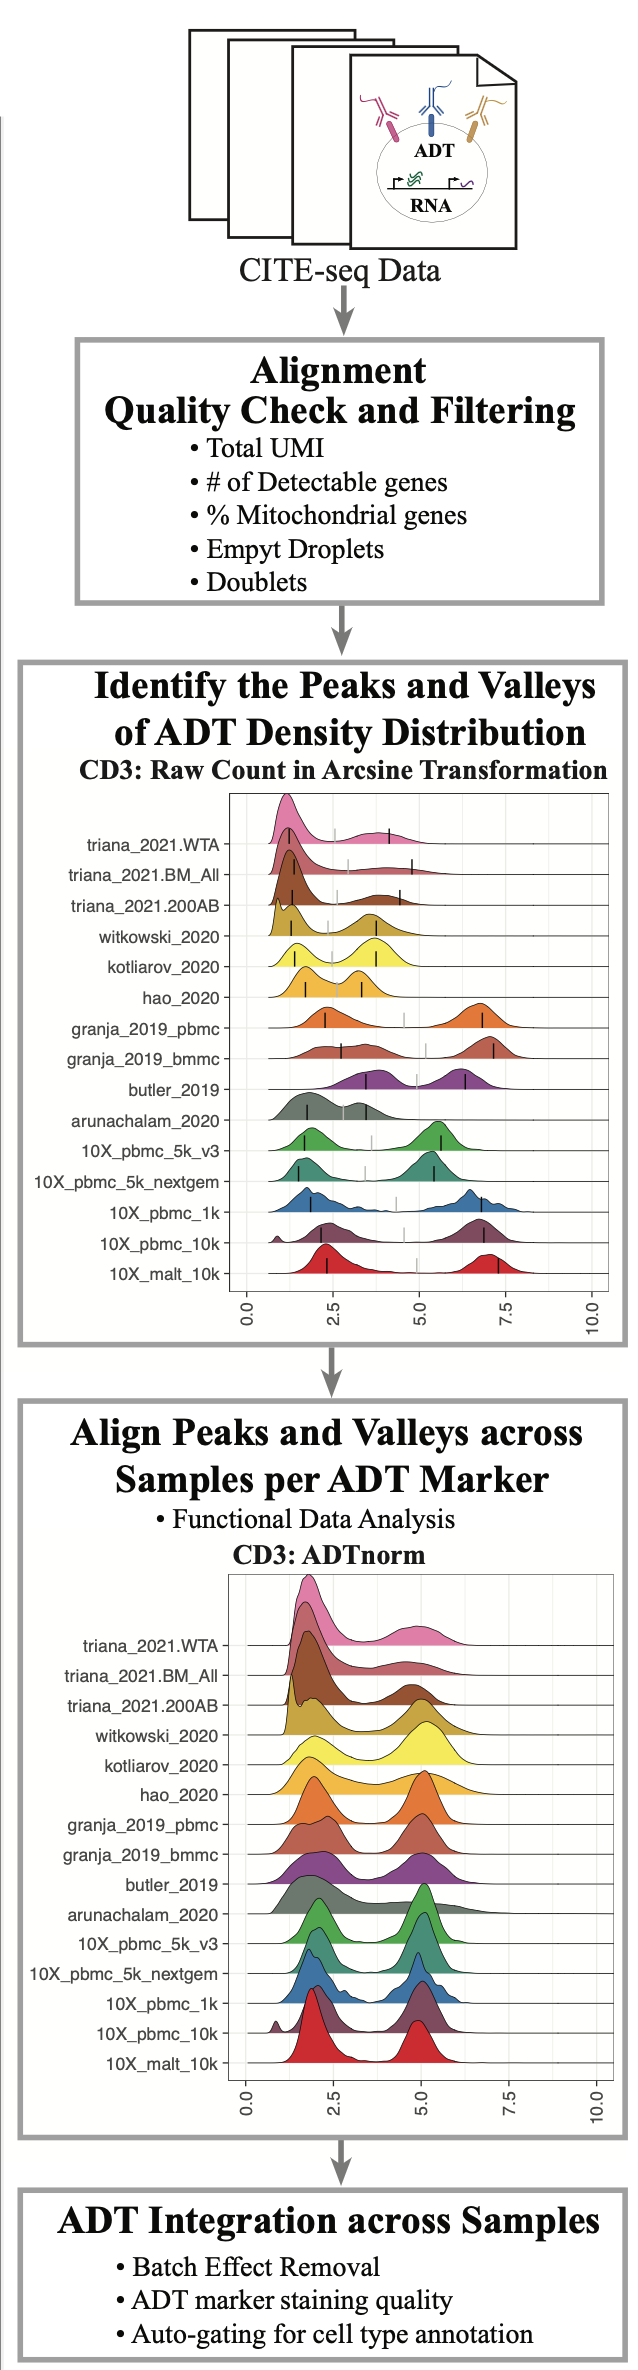
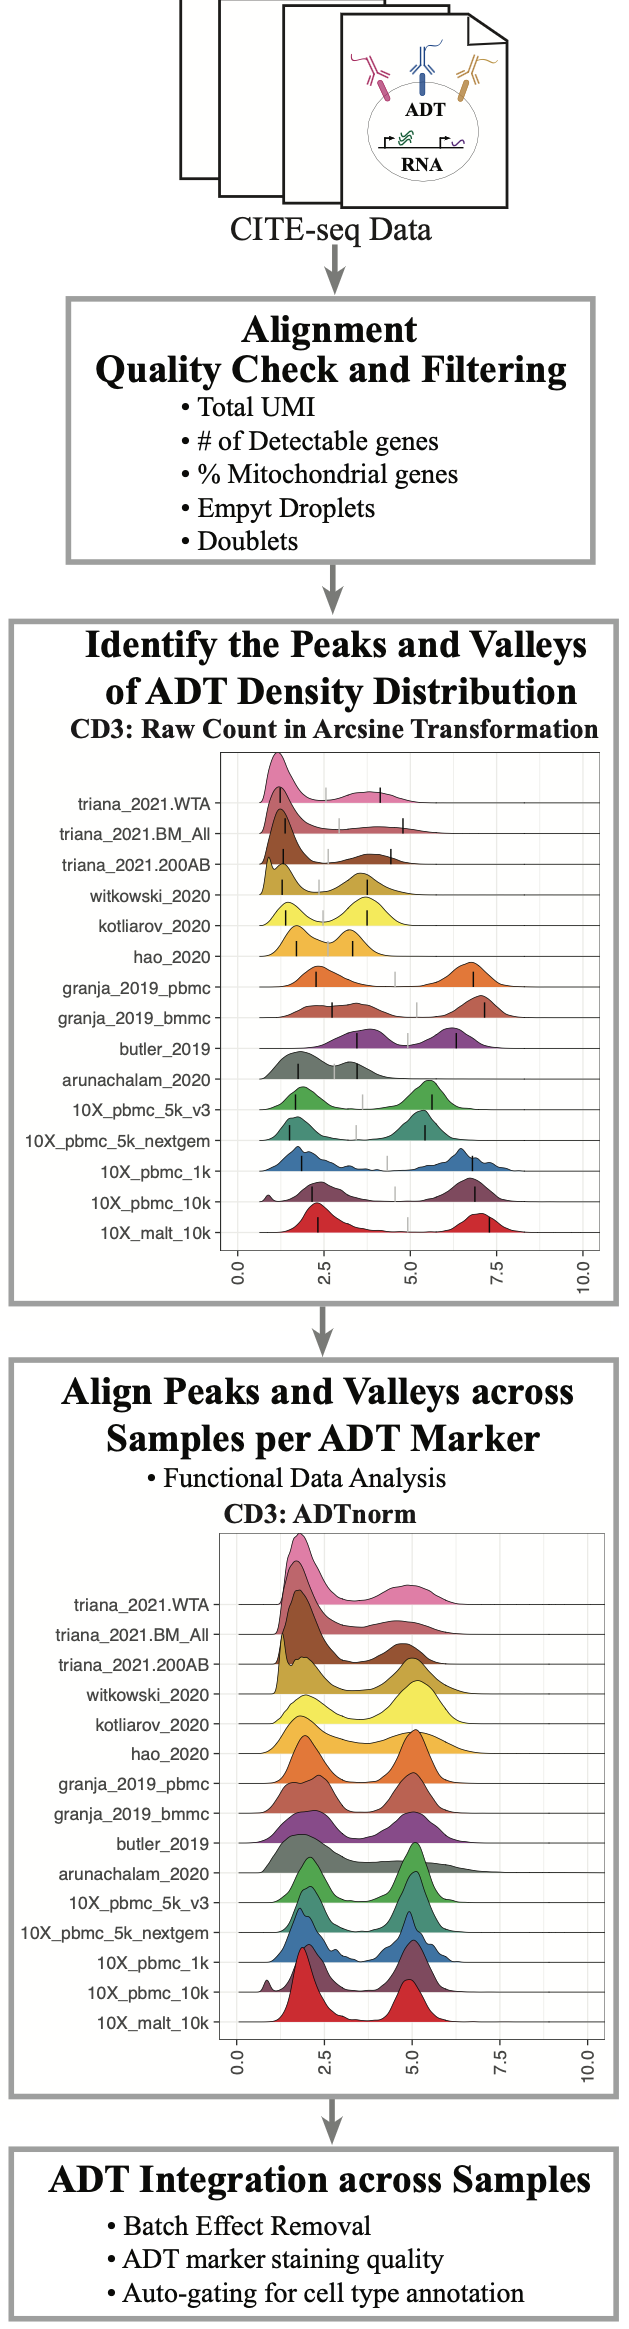
add README draft

Changed region(s): [[0.0, 0.0, 0.9968, 1.0], [0.2719, 0.0, 0.3021, 0.0927]]

diff --git a/README.md b/README.md
@@ -6,7 +6,7 @@ CITE-seq technology enables the direct measurement of protein expression, known 
 
 ## ADT normaliztion pipeline
 
-<img src="./figures/Pipeline.png" alt="ADTnorm" width="700px">
+<img src="./figures/Pipeline.png" alt="ADTnorm" width="200px">
 
 ## Installation
 
